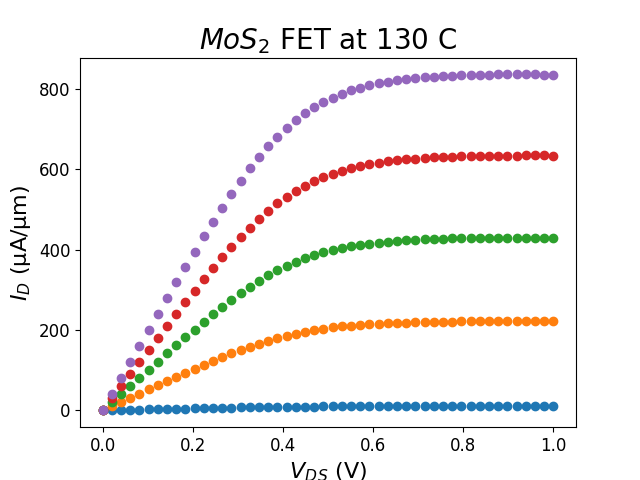
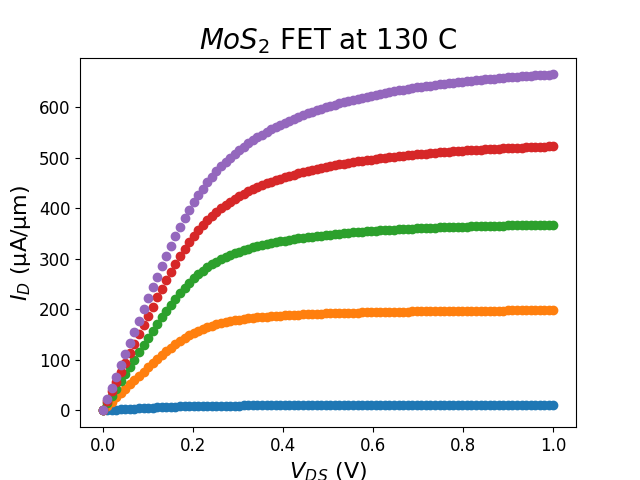
updating stanford2ds

diff --git a/SemiPy/Physics/Modeling/TwoDFETs/Stanford2D.py b/SemiPy/Physics/Modeling/TwoDFETs/Stanford2D.py
@@ -119,18 +119,23 @@ class Stanford2DSModel(BaseModel):
         return ambient_mobility * (temperature / ambient_temperature) ** (self.FET.mobility_temperature_exponent * -1)
 
     def compute_v0(self):
-        Nop = 1 / (math.exp(self.hwop / (self.k * Value(295, ureg.kelvin))))
+        Nop = self.compute_nop(Value(295, ureg.kelvin))
+        # Nop = 1 / (math.exp(self.hwop / (self.k * Value(295, ureg.kelvin))))
         return self.FET.channel.saturation_velocity * (Nop + 1)
 
+    def compute_nop(self, temp):
+        return 1 / (math.exp(self.hwop / (self.k * temp)) - 1)
+
     def compute_saturation_velocity(self, Temp):
-        Nop = 1 / (math.exp(self.hwop / (self.k * Temp)))
+        Nop = self.compute_nop(Temp)
         return self.vO / (Nop + 1)
 
     def compute_mobility_velocity_saturation(self, effective_mobility, Vds, Temp):
         #return effective_mobility
         field = Vds / self.FET.length.adjust_unit(ureg.centimeter)
+        vsat = self.compute_saturation_velocity(Temp)
         #return effective_mobility / (1 + (effective_mobility * field / self.FET.channel.saturation_velocity)**self.eta)**(1/self.eta)
-        return effective_mobility / (1 + (effective_mobility * field / self.compute_saturation_velocity(Temp))**self.eta)**(1/self.eta)
+        return effective_mobility / (1 + (effective_mobility * field / vsat)**self.eta)**(1/self.eta), vsat
 
     def compute_temperature(self, power, ambient_temperature, metal_thermal_resistance=None):
         if metal_thermal_resistance is None:
@@ -149,11 +154,11 @@ class Stanford2DSModel(BaseModel):
         return average_temperature
 
     #def model_output(self, Vds, Vgs, ambient_temperature=None):
-    def model_output(self, Vds, Vgs, heating=True, vsat=True, ambient_temperature=None, iterations=2):
+    def model_output(self, Vds, Vgs, heating=True, vsat=True, ambient_temperature=None, iterations=2, linestyle='-'):
         mobility_temp = Value(295, ureg.kelvin)
         if ambient_temperature is None:
             ambient_temperature = Value(295, ureg.kelvin)
-
+        colors = ['C0', 'C2', 'C3']
         assert isinstance(Vds, ModelInput)
         assert isinstance(Vgs, ModelInput)
 
@@ -173,6 +178,7 @@ class Stanford2DSModel(BaseModel):
             idvd_data['Id_{0}'.format(vg)] = []
             idvd_data['T_{0}'.format(vg)] = []
             idvd_data['Add_{0}'.format(vg)] = []
+            idvd_data['vsat_{0}'.format(vg)] = []
         idvd_data['Vds'] = Vds.range
 
         # now loop through the Vgs values
@@ -198,7 +204,8 @@ class Stanford2DSModel(BaseModel):
                                                                          temperature)
                 # now compute the mobility at this field
                 if vsat:
-                    effective_mobility = self.compute_mobility_velocity_saturation(effective_mobility, vds, temperature)
+                    effective_mobility, vsat = self.compute_mobility_velocity_saturation(effective_mobility, vds, temperature)
+                    idvd_data['vsat_{0}'.format(vgs)].append(vsat)
 
                 # now calculate the new current
                 prev_Id = self.compute_drift_current(vds, effective_mobility, vgs, prev_Id).base_units()
@@ -208,27 +215,36 @@ class Stanford2DSModel(BaseModel):
         I_units = '\u03BCA/\u03BCm'
         plt.rc('xtick', labelsize=12)  # fontsize of the tick labels
         plt.rc('ytick', labelsize=12)
-        for vgs in Vgs.range:
-            plt.scatter(idvd_data['Vds'], [i * 1e6 for i in idvd_data['Id_{0}'.format(vgs)]],
-                     label='Vgs = {0} V'.format(math.floor(vgs * 10) / 10))
+        for i_vg, vgs in enumerate(Vgs.range):
+            plt.plot(idvd_data['Vds'], [i * 1e6 for i in idvd_data['Id_{0}'.format(vgs)]], colors[i_vg] + linestyle,
+                     label='Vgs = {0} V'.format(math.floor(vgs * 10) / 10), linewidth=4)
         plt.title('$MoS_2$ FET at {0} C'.format(int(ambient_temperature) - 270), fontsize=20)
         plt.xlabel('$V_D$$_S$ (V)', fontsize=16)
         plt.ylabel('$I_D$ ({0})'.format(I_units), fontsize=16)
         # plt.legend()
         # plt.show()
-        plt.savefig('IdVd_plot_at_{0}'.format(ambient_temperature))
-        plt.show()
 
-        for vgs in Vgs.range:
-            plt.scatter(idvd_data['Vds'], idvd_data['T_{0}'.format(vgs)],
-                     label='Vgs = {0} V'.format(math.floor(vgs * 10) / 10))
-        plt.title('$MoS_2$ FET at {0} C'.format(int(ambient_temperature) - 270), fontsize=20)
-        plt.xlabel('$V_D$$_S$ (V)', fontsize=16)
-        plt.ylabel('Temperature (K)', fontsize=16)
+        # for vgs in Vgs.range:
+        #     plt.scatter(idvd_data['Vds'], idvd_data['T_{0}'.format(vgs)],
+        #              label='Vgs = {0} V'.format(math.floor(vgs * 10) / 10))
+        # plt.title('$MoS_2$ FET at {0} C'.format(int(ambient_temperature) - 270), fontsize=20)
+        # plt.xlabel('$V_D$$_S$ (V)', fontsize=16)
+        # plt.ylabel('Temperature (K)', fontsize=16)
         # plt.legend()
         # plt.show()
-        plt.savefig('Temp_plot_at_{0}'.format(ambient_temperature))
-        plt.show()
+        # plt.savefig('Temp_plot_at_{0}'.format(ambient_temperature))
+        # plt.show()
+
+        # for vgs in Vgs.range:
+        #     plt.scatter(idvd_data['Vds'], idvd_data['vsat_{0}'.format(vgs)],
+        #                 label='Vgs = {0} V'.format(math.floor(vgs * 10) / 10))
+        # plt.title('$MoS_2$ FET at {0} C'.format(int(ambient_temperature) - 270), fontsize=20)
+        # plt.xlabel('$V_D$$_S$ (V)', fontsize=16)
+        # plt.ylabel('vsat (cm/s)', fontsize=16)
+        # plt.legend()
+        # plt.show()
+        # plt.savefig('vsat_plot_at_{0}'.format(ambient_temperature))
+        # plt.show()
 
         idvd_plot = BasicPlot(x_label='VDS (V)', y_label='ID ({0})'.format(I_units), marker_size=8.0)
 

diff --git a/SemiPy/Physics/Modeling/TwoDFETs/test_Stanford2D.py b/SemiPy/Physics/Modeling/TwoDFETs/test_Stanford2D.py
@@ -9,6 +9,7 @@ from SemiPy.Devices.Materials.Semiconductors.BulkSemiconductors import Silicon
 from SemiPy.Devices.Devices.FET.ThinFilmFET import TFT
 from physics.value import Value, ureg
 from SemiPy.Physics.Modeling.BaseModel import ModelInput
+import matplotlib.pyplot as plt
 
 
 class Test2DFETModels(unittest.TestCase):
@@ -19,12 +20,12 @@ class Test2DFETModels(unittest.TestCase):
         channel = MoS2(layer_number=1, thickness=Value(0.6, ureg.nanometer))
         substrate = Silicon()
 
-        fet = TFT(channel=channel, gate_oxide=gate_oxide, length=Value(10, ureg.nanometer),
+        fet = TFT(channel=channel, gate_oxide=gate_oxide, length=Value(50, ureg.nanometer),
                   width=Value(0.05, ureg.micrometer), substrate=substrate)
 
         fet.Vt_avg.set(Value(0.19, ureg.volt))
 
-        fet.Rc.set(Value(150.0, ureg.ohm * ureg.micrometer),
+        fet.Rc.set(Value(100.0, ureg.ohm * ureg.micrometer),
                    input_values={'n': Value(1e13, ureg.centimeter**-2)})
 
         fet.max_mobility.set(Value(40, ureg.centimeter**2 / (ureg.volt * ureg.second)),
@@ -34,15 +35,20 @@ class Test2DFETModels(unittest.TestCase):
 
         S2DModel = Stanford2DSModel(FET=fet)
 
-        Vds = ModelInput(0.0, 1.0, num=100, unit=ureg.volt)
+        Vds = ModelInput(0.0, 1.0, num=70, unit=ureg.volt)
 
-        Vgs = ModelInput(0.2, 1.2, num=5, unit=ureg.volt)
+        Vgs = ModelInput(0.2, 1.0, num=3, unit=ureg.volt)
 
-        # temps = [310, 355, 400]
-        temps = [310]
-        for temp in temps:
-            S2DModel.model_output(Vds, Vgs, heating=False, vsat=True, ambient_temperature=Value(temp, ureg.kelvin))
+        temps = [290, 400]
+        linestyles = ['-', '--']
 
+        # temps = [310]
+        for temp, linestyle in zip(temps, linestyles):
+            S2DModel.model_output(Vds, Vgs, heating=True, vsat=True,
+                                  ambient_temperature=Value(temp, ureg.kelvin), linestyle=linestyle)
+
+        plt.savefig('IdVd_plot_at')
+        plt.show()
 
 
 # if __name__ == '__main__':

diff --git a/SemiPy/Physics/DevicePhysics.py b/SemiPy/Physics/DevicePhysics.py
@@ -8,8 +8,11 @@ import math
 from physics.value import Value, ureg
 
 
-def units_decorator():
-    pass
+def units_decorator(citation):
+    def dec(obj):
+        obj.__doc__ = obj.__doc__.replace('<citation>', citation.doc_string_ref())
+        return obj
+    return dec
 
 
 def compute_mobility(gm, cox, vd, l, w=None):
